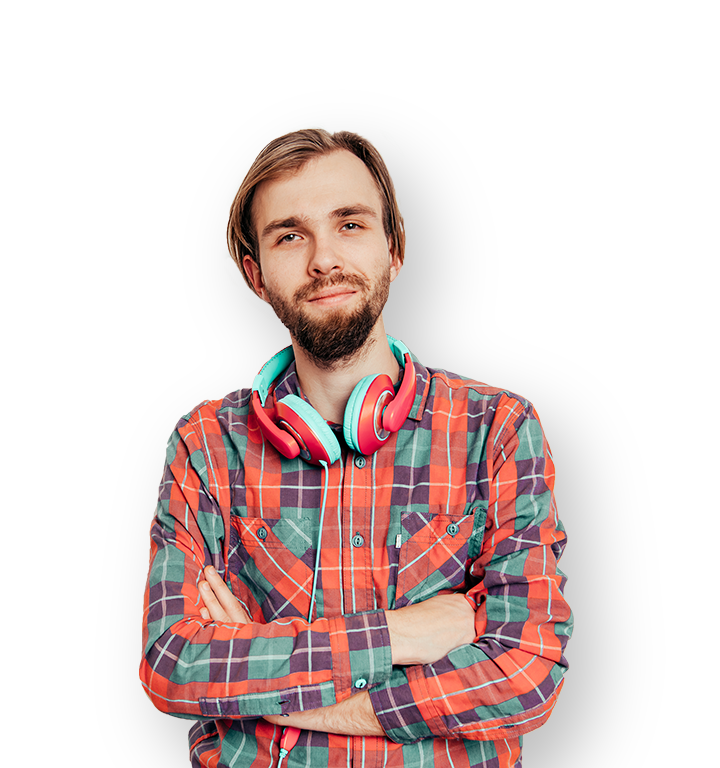
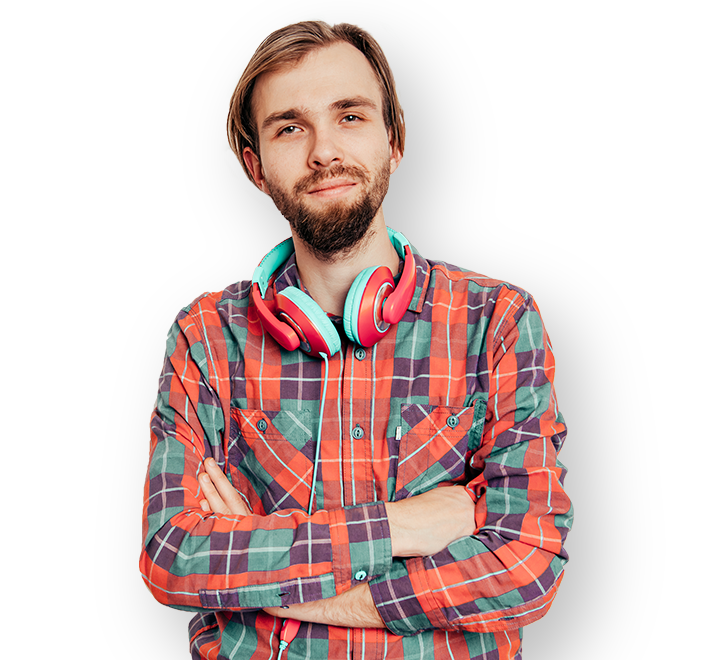
adapt fix, menu ON

diff --git a/css/style.css b/css/style.css
@@ -131,7 +131,7 @@ header {
 
 .about {    
     width: 100%;
-    height: 650px;    
+    height: 600px;    
     background: #fbfbfb;    
 }
 
@@ -180,7 +180,7 @@ header {
 
 
 #about__img {
-    height: 650px;
+    height: 600px;
     position: absolute;
     right: 160px;
     z-index: 1;
@@ -215,6 +215,7 @@ header {
     display: flex;
     flex-direction: column;
     align-items: center;
+    margin: 10px;
 }
 
 .services__text {
@@ -310,7 +311,7 @@ header {
 }
 
 .promo__content {
-    padding: 80px 20px;
+    padding: 40px 20px;
     width: 60%;
     margin: 0 auto;
 }
@@ -343,13 +344,16 @@ footer {
 .footer__item {
     display: flex;
     flex-direction: column;
-    
-    
 }
 
 .footer__item a {
     margin-bottom: 5px;
     color: gray;
+}
+
+.footer__links {
+    display: flex;
+    flex-direction: column;
 }
 
 .footer__phone {
@@ -383,6 +387,11 @@ footer {
     display: flex;
     flex-direction: row;
     justify-content: space-evenly;
+    align-items: center;
+}
+
+.footer__social img{
+    width: 22px;
 }
 
 .footer__item .ordercall__btn {
@@ -414,6 +423,25 @@ footer {
     height: 70px;
 }
 
+@media screen and (max-width: 1750px) {
+    .about h1 {
+        font-size: 63px
+    }
+
+    .about p {
+        font-size: 20px;
+    }
+}
+
+@media screen and (max-width: 1670px) {
+    .header, .about__content, .services, .gallery__content, .promo__content, footer {
+        width: 70%;
+    }    
+    #about__img {
+        right: 50px;
+    }
+}
+
 @media screen and (max-width: 1540px) {
     #about__img {
         height: 590px;
@@ -426,7 +454,7 @@ footer {
     }
 
     .about h1 {
-        font-size: 50px;    
+        font-size: 55px;    
         
     }
     
@@ -441,6 +469,21 @@ footer {
     }
 }
 
+@media screen and (max-width: 1400px) {
+    .header, .about__content, .services, .gallery__content, .promo__content, footer {
+        width: 80%;
+    }  
+
+    #about__img {
+        height: 550px;
+        right: 0px;
+    }
+
+    .about {        
+        height: 550px;
+    }
+}
+
 @media screen and (max-width: 1363px) {
     .promo h1 {
         font-size: 30px;
@@ -449,7 +492,7 @@ footer {
 
 @media screen and (max-width: 1200px) {
     .header, .about__content, .services, .gallery__content, .promo__content, footer {
-        width: 95%;
+        width: 90%;
     }    
 
     #about__img {        
@@ -457,9 +500,48 @@ footer {
     }
 }
 
-@media screen and (max-width: 900px) {
+@media screen and (max-width: 1150px) {
     #about__img {
-        width: 300px;
+        height: 480px; 
+    }
+
+    .about {        
+        height: 480px;
+    }
+
+    .about h1 {
+        font-size: 45px;    
+        
+    }
+    
+    .about p {
+        font-size: 16px;
+        
+    }
+}
+
+@media screen and (max-width: 1000px) {
+    #about__img {
+        height: 390px; 
+    }
+
+    .about {        
+        height: 390px;
+    }
+
+    .about h1 {
+        font-size: 40px;    
+        
+    }
+}
+
+@media screen and (max-width: 850px) {
+    .about {
+        height: 565px;
+    }
+    
+    #about__img {
+        width: 330px;
         height: 300px;
         position: static;
     }
@@ -476,7 +558,11 @@ footer {
     }
 }
 
-@media screen and (max-width: 728px) {
+@media screen and (max-width: 770px) {
+    header {
+        padding-bottom: 30px;
+    }
+
     .header {        
         flex-direction: column;        
         height: 120px;
@@ -485,7 +571,7 @@ footer {
     }
 
     .header a {
-        margin: 5px;
+        margin: 5px 20px;
     }
 }
 
@@ -529,6 +615,14 @@ footer {
 
     .footer__item {        
         margin-bottom: 30px;
+    }
+
+    .footer__links {
+        flex-direction: row;        
+    }
+
+    .footer__links a {
+        margin: 5px 20px;
     }
 }
 
@@ -581,7 +675,11 @@ footer {
     }
 }
 
-@media screen and (max-width: 398px) {
+@media screen and (max-width: 414px) {
+    header {
+        padding-bottom: 20px;
+    }
+
     .header {
         height: 145px;
     }
@@ -609,5 +707,24 @@ footer {
 
     .services__title p, .gallery__title p {
         font-size: 20px;
+    }
+}
+
+@media screen and (max-width: 350px) {
+    .about{
+        height: 540px;
+    }
+
+    #about__img {
+        width: 300px;
+        height: 275px;
+    }
+
+    .about h1 {
+        font-size: 25px;
+    }
+
+    .footer__links a {
+        font-size: 14px;
     }
 }

diff --git a/index.html b/index.html
@@ -13,9 +13,9 @@
     <header>
         <div class="header">
             <div class="header__links">
-                <a id="header__services" href="#">Услуги</a>
-                <a id="header__portfolio" href="#">Портфолио</a>
-                <a id="header__cost" href="#">Стоимость</a>
+                <a id="header__services" href="#services">Услуги</a>
+                <a id="header__portfolio" href="#gallery">Портфолио</a>
+                <a id="header__cost" href="#promo">Стоимость</a>
             </div>
             <div class="header__phone">
                 <p>+7 (499) 995-55-77</p>
@@ -42,13 +42,13 @@
             <div class="about__text">
                 <h1>Дмитрий Алексеев</h1>
                 <p>Frontend-разработчик и веб-верстальщик</p>
-                <button id="about__more">Узнать больше</button>
+                <button id="about__more" class="ordercall__btn">Узнать больше</button>
             </div>
             <img id="about__img" src="img/dmitry.png">
         </div>
     </div>
 
-    <div class="services">
+    <div class="services" id="services">
         <div class="services__title">
             <p>Что я делаю</p>
         </div>
@@ -86,10 +86,10 @@
                 </div>
             </div>
         </div>
-        <button id="services__btn">Узнать стоимость</button>
+        <button id="services__btn" class="ordercall__btn">Узнать стоимость</button>
     </div>
 
-    <div class="gallery">
+    <div class="gallery" id="gallery">
         <div class="gallery__content">
             <div class="gallery__title">
                 <p>Примеры моих работ</p>
@@ -120,11 +120,11 @@
                     </div>
                 </div>
             </div>
-            <button id="gallery__btn">Заказать проект</button>
+            <button id="gallery__btn" class="ordercall__btn">Заказать проект</button>
         </div>
     </div>
 
-    <div class="promo">
+    <div class="promo" id="promo">
         <div class="promo__content">
             <h1>Адаптивная вёрстка под все устройства и браузеры от 1000 рублей всего за 4 часа.*</h1>
             <p>* Срок и стоимость могут отличаться от заявленных и рассчитываются индивидуально,
@@ -135,9 +135,11 @@
     <footer>
         <div class="footer__content">
             <div class="footer__item">
-                <a id="footer__services" href="#">Услуги</a>
-                <a id="footer__portfolio" href="#">Портфолио</a>
-                <a id="footer__cost" href="#">Стоимость</a>
+                <div class="footer__links">
+                    <a id="footer__services" href="#services">Услуги</a>
+                    <a id="footer__portfolio" href="#gallery">Портфолио</a>
+                    <a id="footer__cost" href="#promo">Стоимость</a>
+                </div>
             </div>
 
             <div class="footer__item">
@@ -167,7 +169,7 @@
     </div>
 
     <script src="script/jquery-3.3.1.min.js"></script>
-    <script src="script/script.js"></script>
+    <script src="script/modal.js"></script>    
 </body>
 
 </html>

diff --git a/script/modal.js b/script/modal.js
@@ -2,6 +2,7 @@ $(document).ready(function () {
     $('.ordercall__btn').click(function () {
         $('#popupContainer').css('display', 'flex');
         $('body').css('overflow', 'hidden');
+        
     })
 
     $('#popupContainer').click(function (event) {
